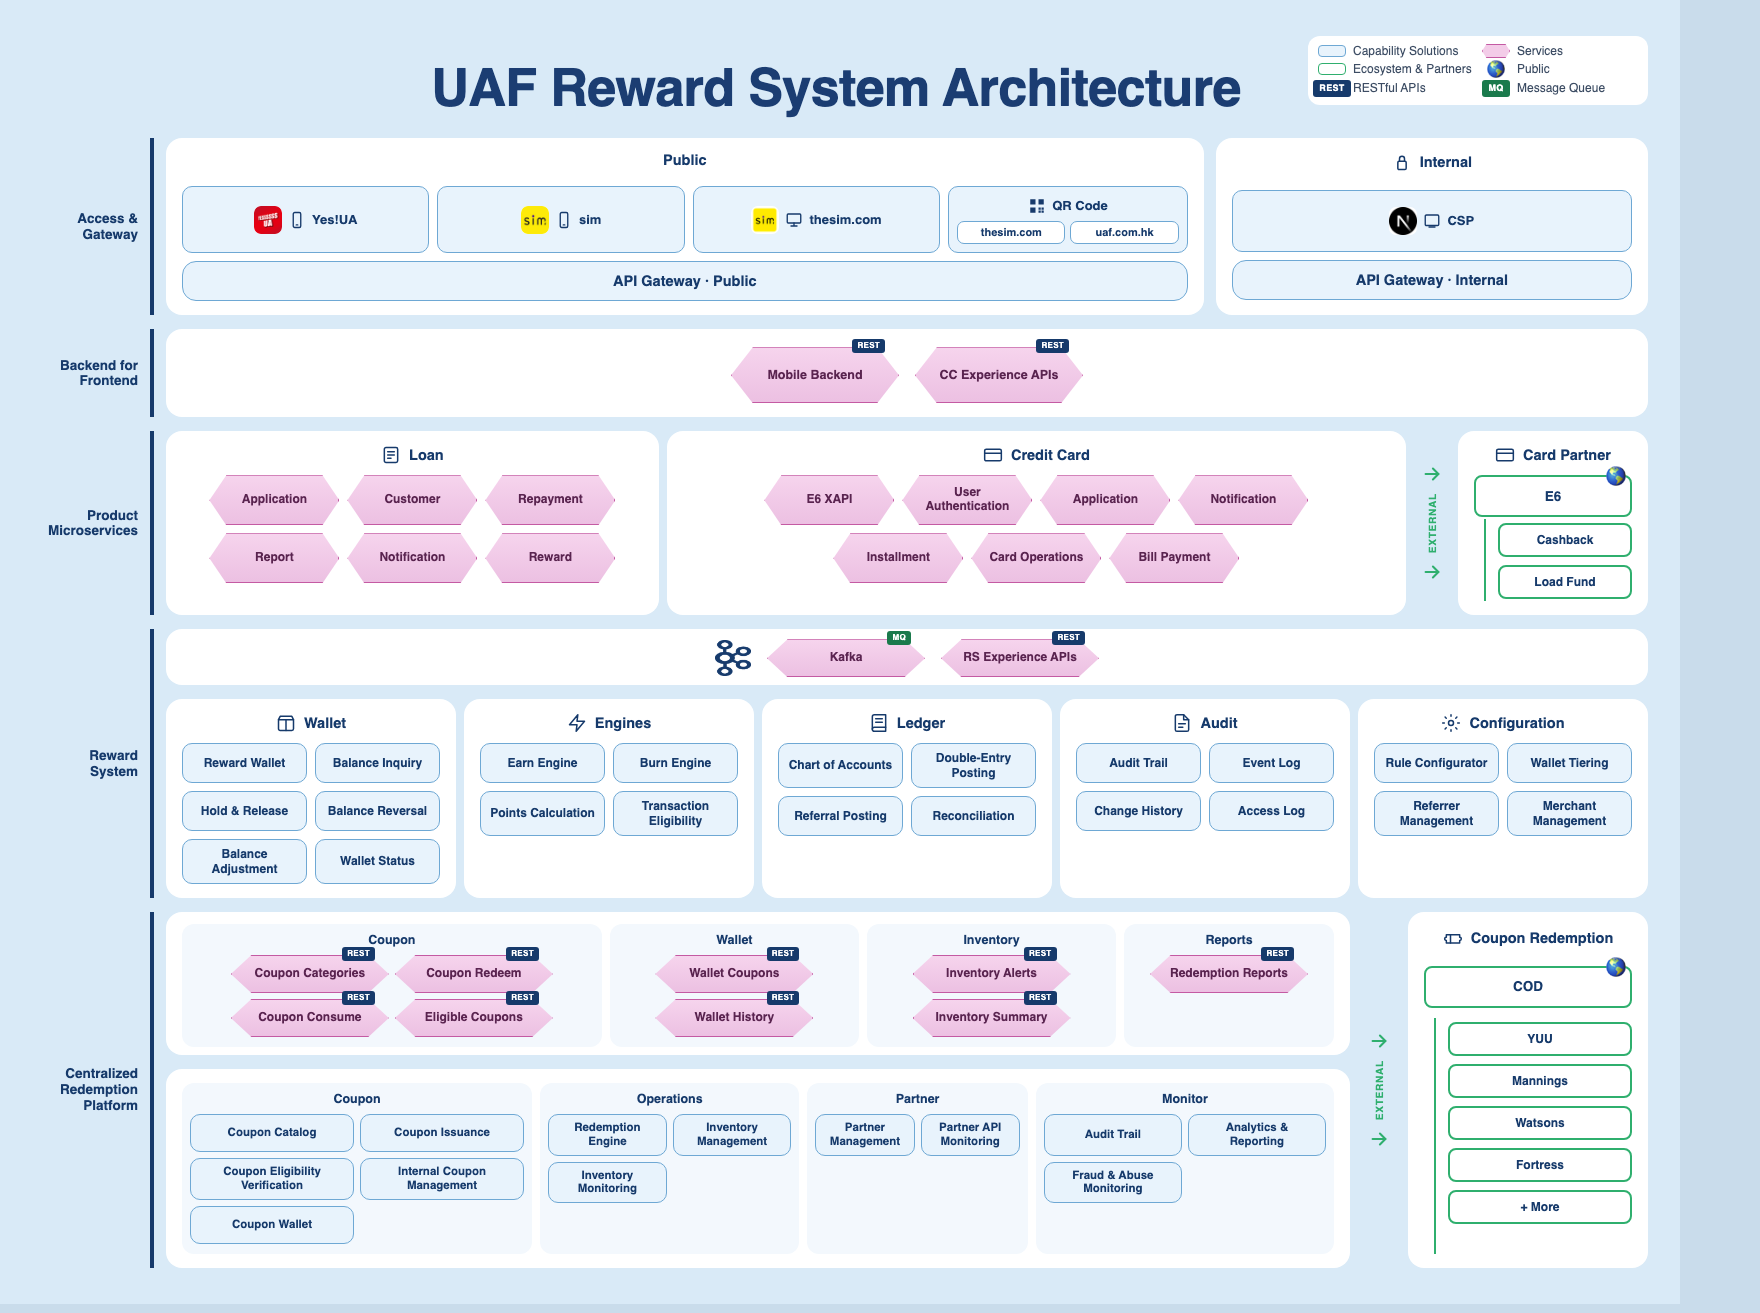
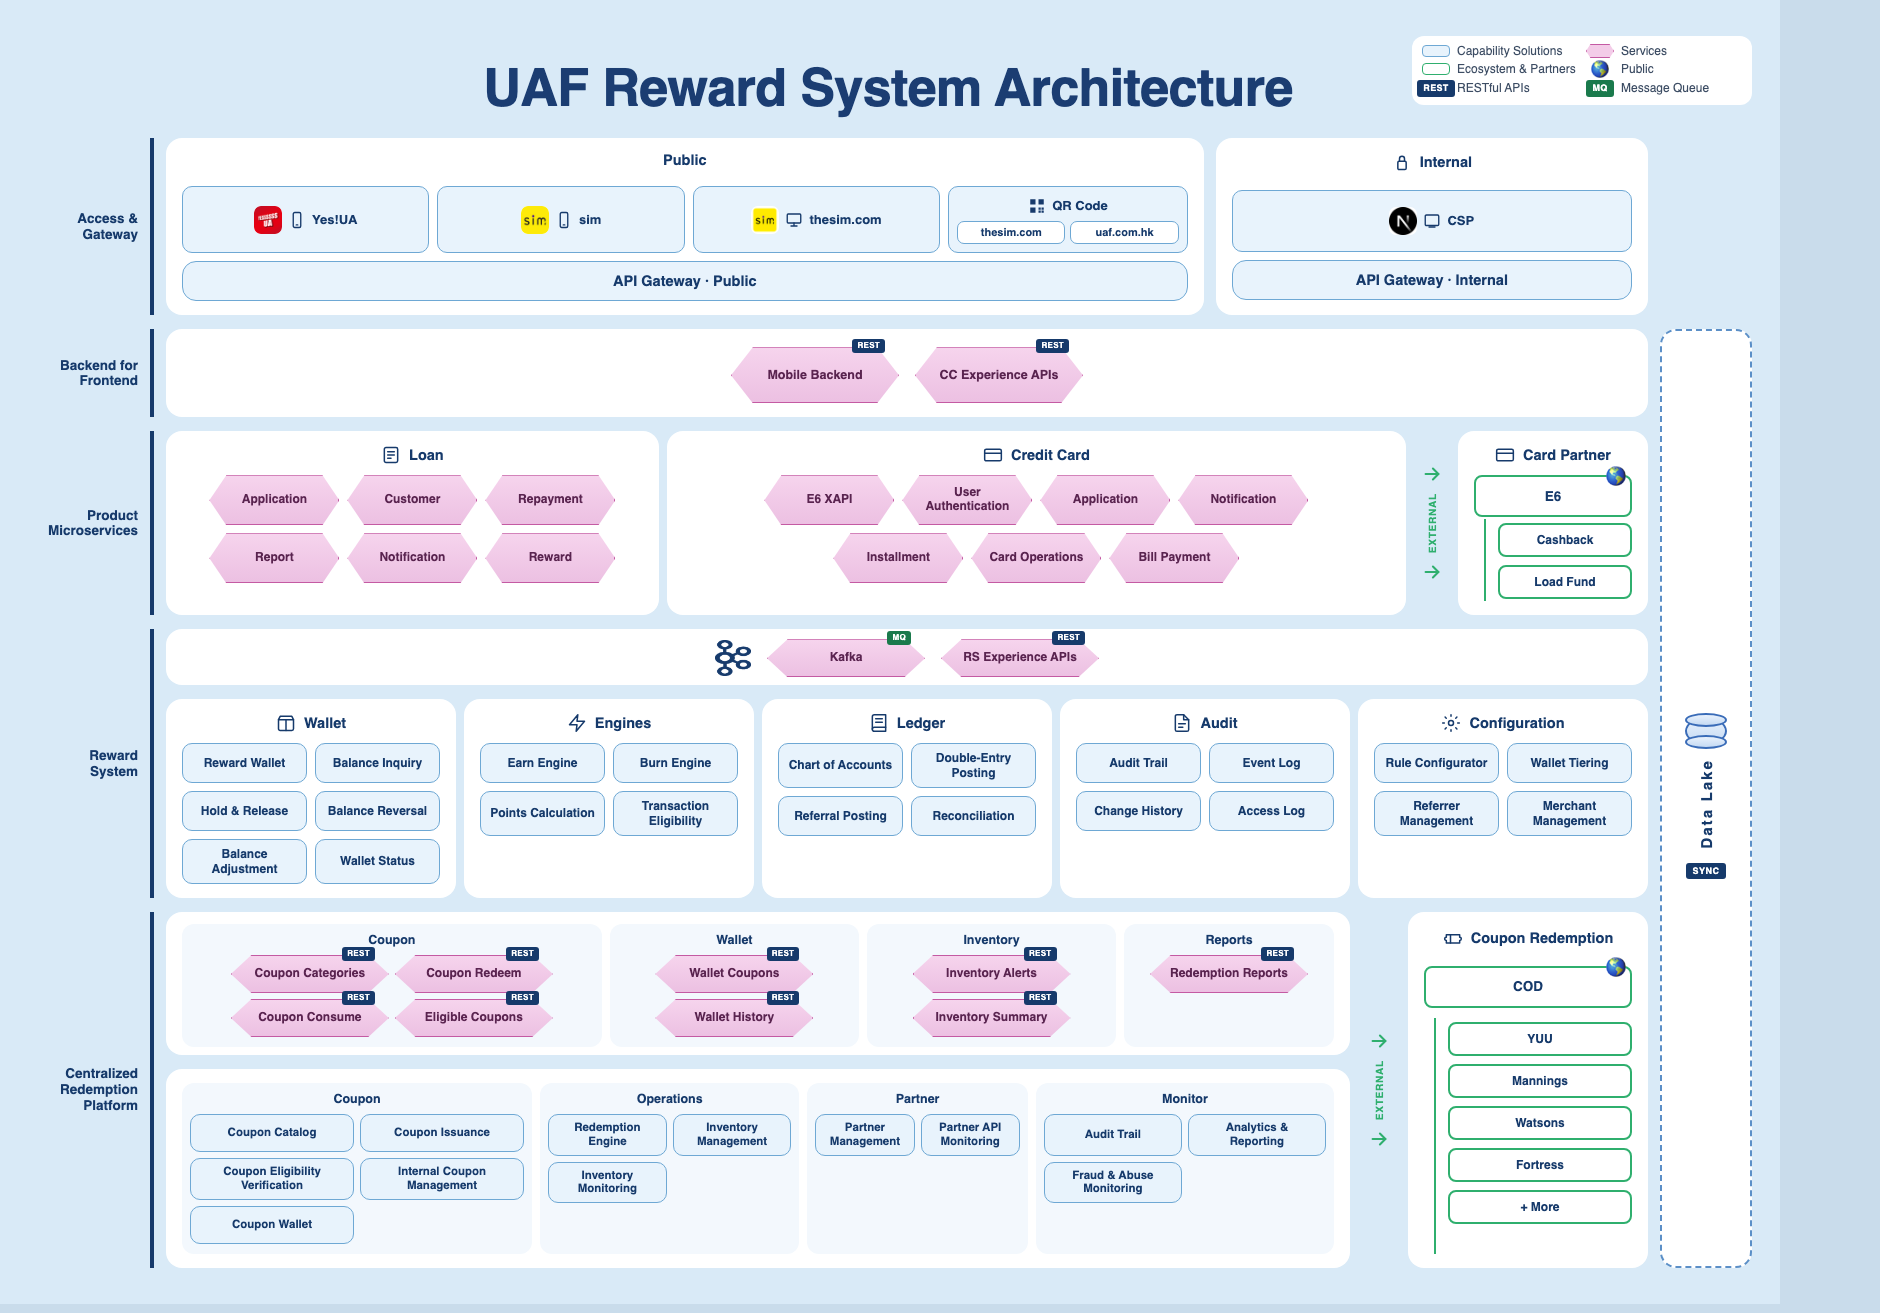
docs(decks): right-rail Data Lake sync from BFF through CRP

diff --git a/docs/decks/uaf-rewards-logical-architecture.html b/docs/decks/uaf-rewards-logical-architecture.html
@@ -7,13 +7,13 @@
 <style>
   *{box-sizing:border-box;margin:0;padding:0}
   body{background:#c9dceb;font-family:"Source Sans 3","Segoe UI",sans-serif;color:#1a2a44}
-  .poster{width:1680px;background:#d9eaf7;padding:36px 32px 36px 24px;position:relative}
+  .poster{width:1780px;background:#d9eaf7;padding:36px 28px 36px 24px;position:relative}
   .head{position:relative;min-height:88px;margin-bottom:14px}
   h1{position:absolute;left:0;right:0;top:22px;text-align:center;font-size:52px;font-weight:800;color:#1b3d72;letter-spacing:-.6px;margin:0;pointer-events:none}
   .legend{position:absolute;top:0;right:0;width:340px;z-index:1;background:#fff;border-radius:12px;padding:8px 10px;font-size:12px;color:#3d4d64;display:grid;grid-template-columns:1fr 1fr;gap:4px 8px}
   .g{
     display:grid;
-    grid-template-columns: 130px 1fr;
+    grid-template-columns: 130px 1fr 92px;
     grid-template-rows: repeat(7, auto);
     gap: 14px 12px;
     align-items: stretch;
@@ -120,6 +120,13 @@
   .c6{grid-column:2;grid-row:5}
   .l8{grid-column:1;grid-row:6 / span 2}
   .c7{grid-column:2;grid-row:6 / span 2}
+  .dl{grid-column:3;grid-row:2 / span 6;background:#fff;border-radius:16px;border:2.2px dashed #5b8fc7;display:flex;flex-direction:column;align-items:center;justify-content:center;gap:14px;padding:18px 8px}
+  .dl-cyl{width:42px;height:28px;border:2.2px solid #3a6cb8;border-radius:50%;background:linear-gradient(#e8f1fc,#c5daf3);position:relative}
+  .dl-cyl:before,.dl-cyl:after{content:"";position:absolute;left:-2.2px;right:-2.2px;height:10px;border:2.2px solid #3a6cb8;border-radius:50%;background:inherit}
+  .dl-cyl:before{top:-6px}
+  .dl-cyl:after{bottom:-6px}
+  .dl b{writing-mode:vertical-rl;transform:rotate(180deg);font-size:15px;font-weight:800;color:#163a6b;letter-spacing:.14em}
+  .dl .sync{background:#163a6b;color:#fff;font-size:9px;font-weight:800;padding:3px 6px;border-radius:3px;letter-spacing:.06em}
 </style>
 </head>
 <body>
@@ -408,6 +415,12 @@
           <div class="pay">+ More</div>
         </div>
       </div>
+    </div>
+
+    <div class="dl">
+      <div class="dl-cyl"></div>
+      <b>Data Lake</b>
+      <span class="sync">SYNC</span>
     </div>
 
   </div>
